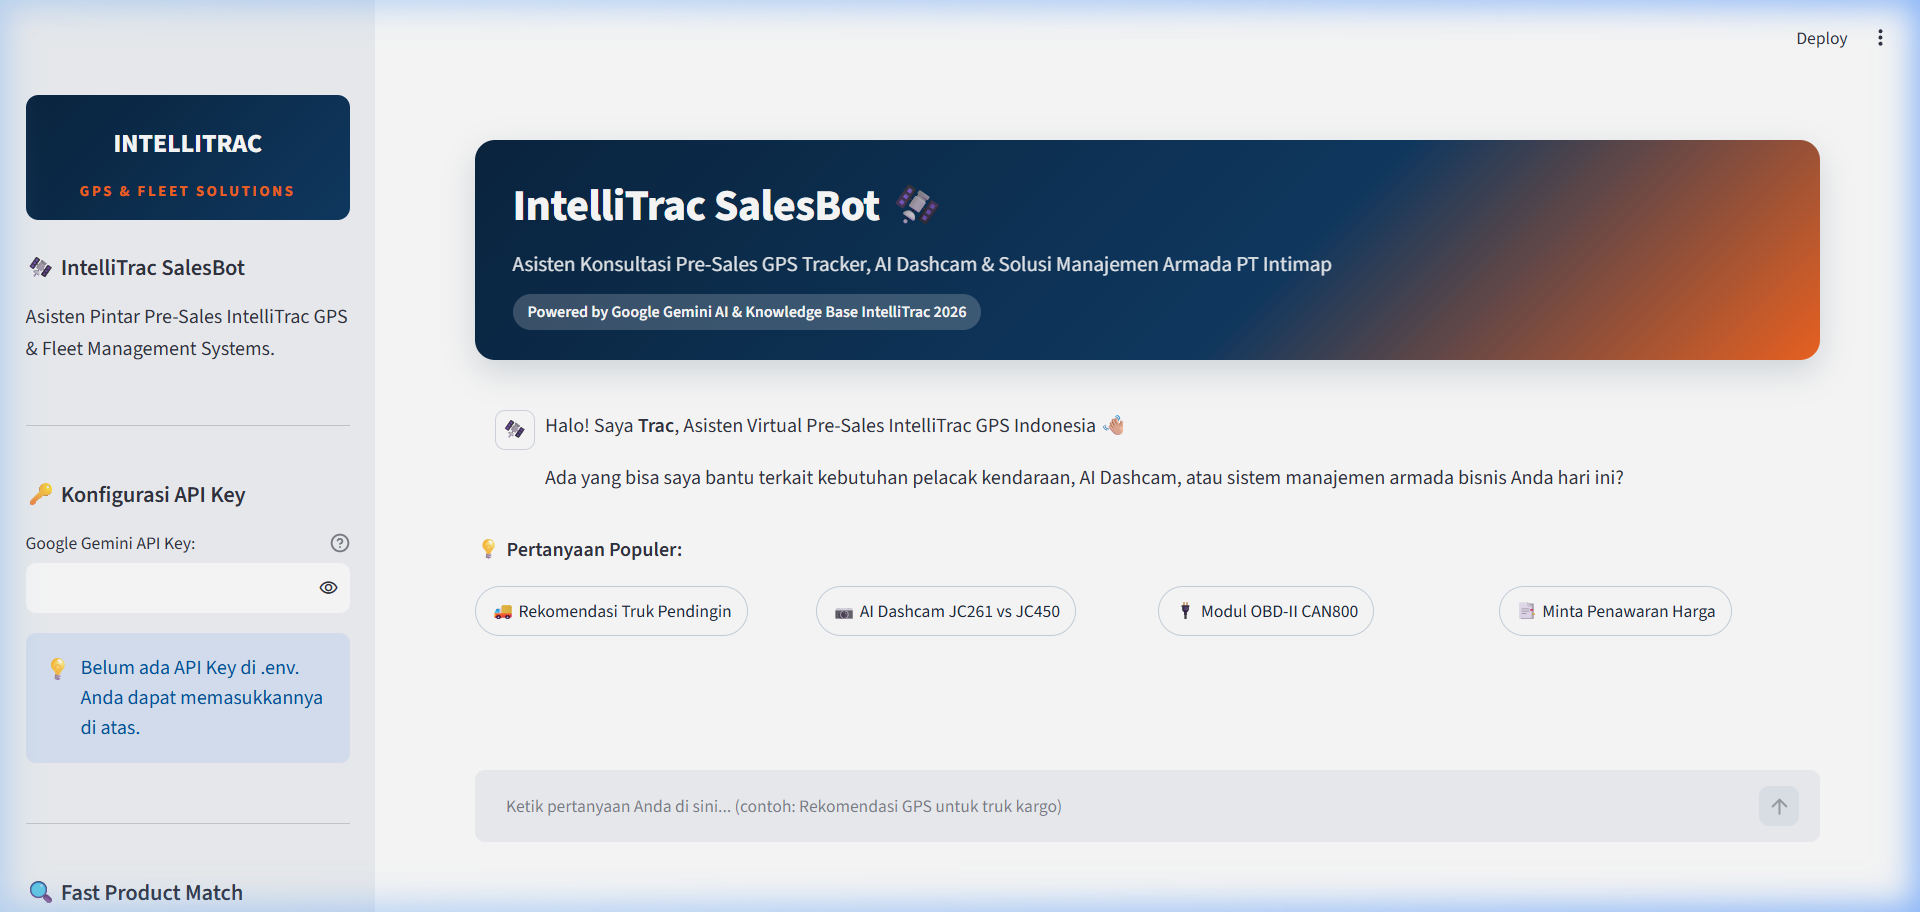
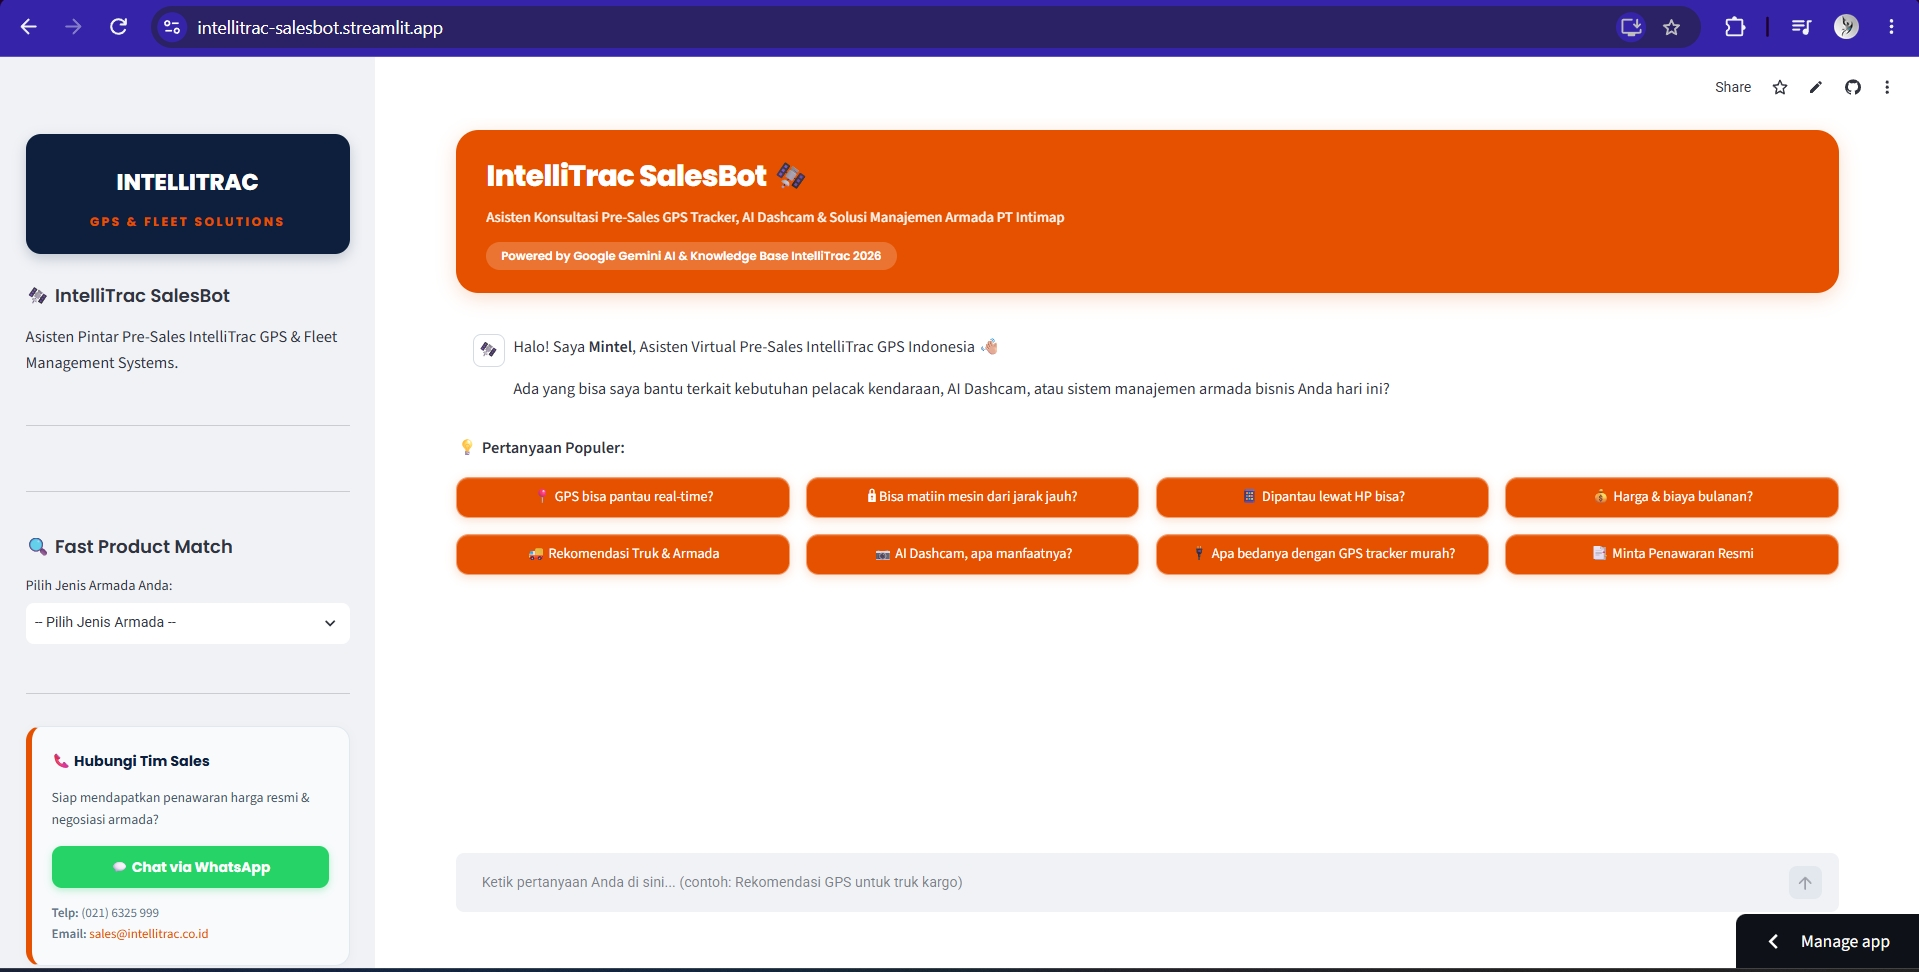
Update UI Screenshot image and embed in README

diff --git a/README.md b/README.md
@@ -9,6 +9,8 @@
 
 ## 📌 Overview
 
+![IntelliTrac SalesBot UI](UI_Screenshot.png)
+
 **IntelliTrac SalesBot** adalah aplikasi chatbot AI pre-sales berbasis web yang dirancang untuk PT Intimap (IntelliTrac Indonesia). Chatbot ini berfungsi sebagai asisten konsultasi pintar bagi calon pelanggan yang tertarik dengan produk pelacak kendaraan (GPS Tracker), AI Dashcam (ADAS & DMS), serta sistem manajemen armada (Fleet Management System).
 
 Chatbot ini diberi nama **"Mintel"**, yang diprogram untuk memberikan rekomendasi produk sesuai jenis armada bisnis calon customer (truk logistik, truk reefer pendingin, truk semen, bus, hingga kendaraan operasional kantor), menjelaskan spesifikasi teknis, serta mengarahkan calon customer ke Sales Executive resmi saat membutuhkan penawaran harga resmi (Sales Handoff).
